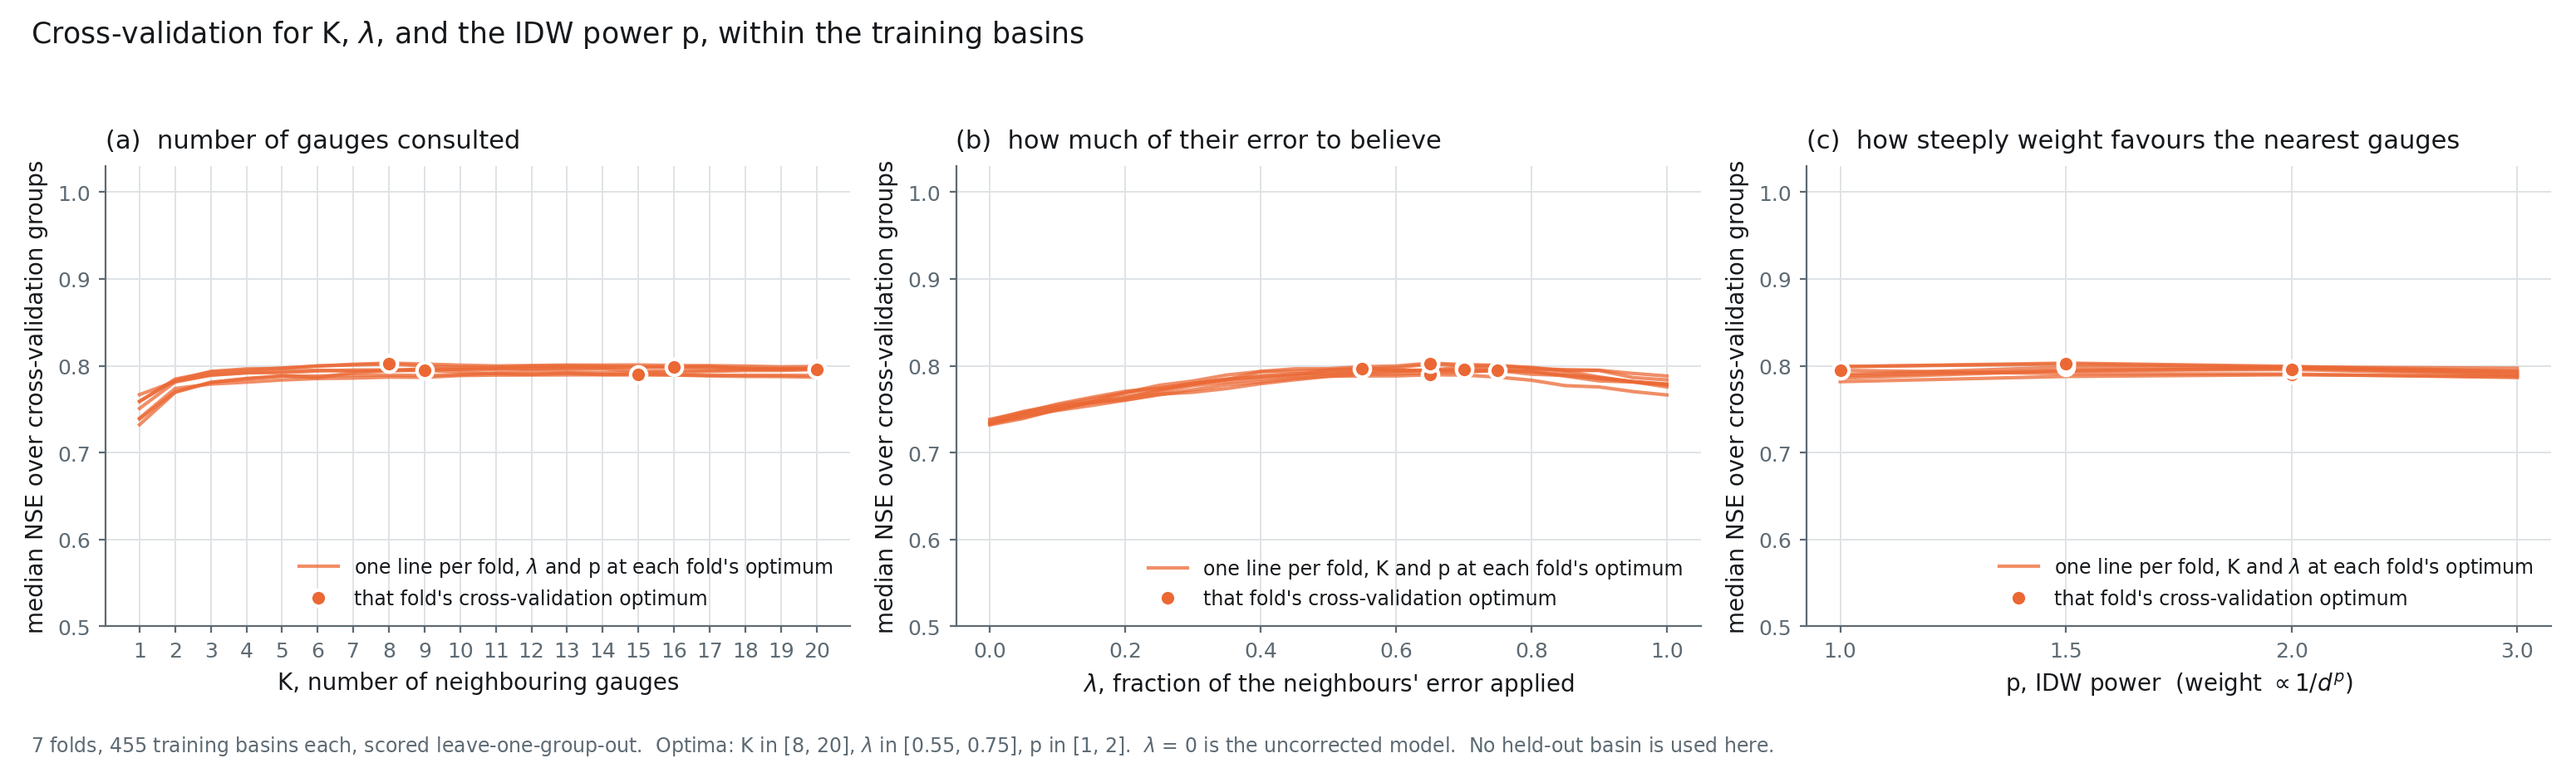
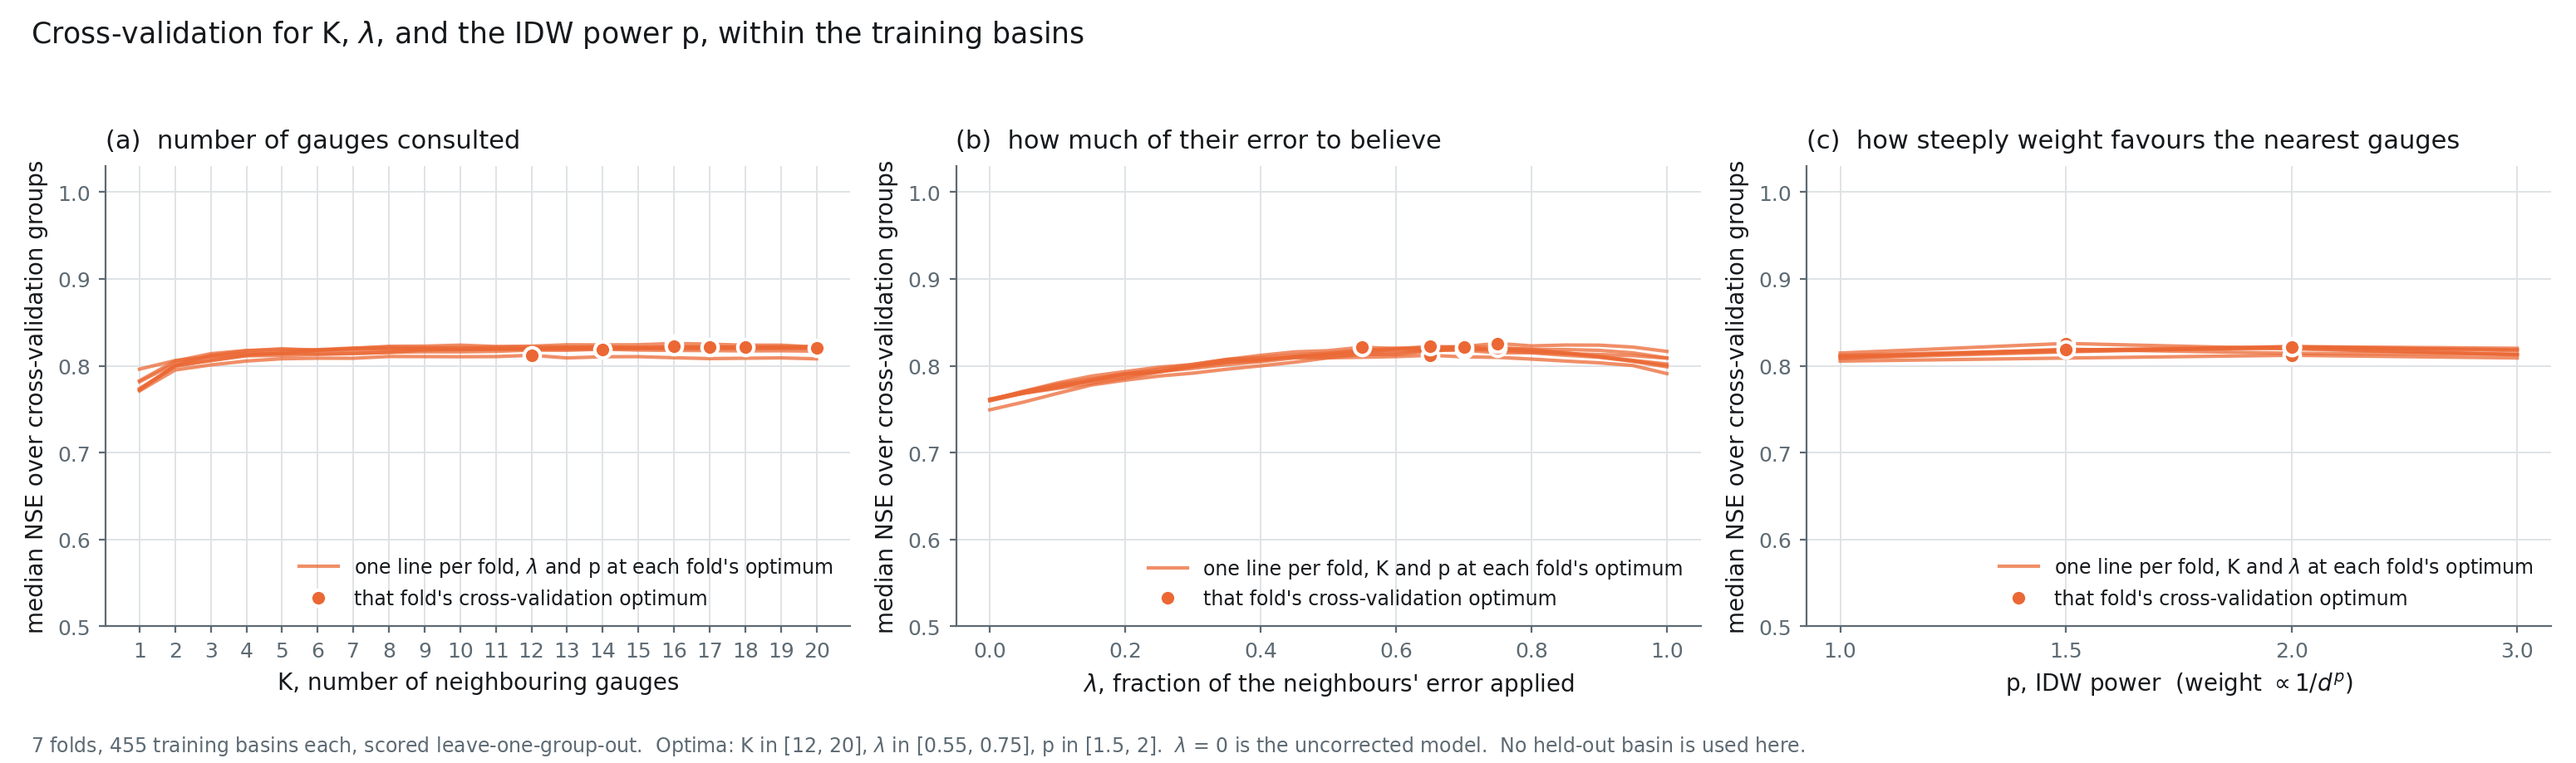
Regenerate PUB figures with the full 3-seed, 7-fold data
CDF, boxplot, hyperparameter, and donor-range figures now reflect all
seven folds x three seeds (median NSE 0.676 -> 0.743, break-even donor
distance 275 km, was 326 km on the earlier 1-seed run).

Also simplified the CDF figure to a single panel (drop the paired
per-basin change plot) and rewired make_cdf_figure.py / make_boxplot_figure.py
to read the metrics CSV src/correct.py already writes instead of
independently re-running the K x lambda x p grid search -- matching the
pattern make_hyperparam_figure.py and make_donor_figure.py already used.
Both scripts' live gauged-reconstruction-pilot code was dropped in favor
of the --pilot flag reading analysis/gauged_reconstruction.py's own CSV.

diff --git a/figures/make_cdf_figure.py b/figures/make_cdf_figure.py
@@ -2,14 +2,9 @@
 
     python figures/make_cdf_figure.py    # -> figures/recon_ungauged_cdf_nse.png
 
-Left: the empirical CDF across held-out (ungauged) basins. Each basin contributes one point --
-the score of its seed-mean hydrograph -- so a curve lying to the right is winning at every
-quantile it is right of, not merely on average.
-
-Right: the same basins paired. The correction is applied to each basin's own hydrograph, so
-raw and corrected are matched and the honest summary is the per-basin change, not the shift
-between two independent distributions. The count above and below zero is printed on the panel
-because a median gain says nothing about how often the method hurts.
+The empirical CDF across held-out (ungauged) basins. Each basin contributes one point -- the
+score of its seed-mean hydrograph -- so a curve lying to the right is winning at every quantile
+it is right of, not merely on average.
 
 Colour: `figures/palette.py` slots 0 and 1 (#2a78d6 blue, #eb6834 orange), validated there --
 normal-vision dE 33.6, protan 24.5, deutan 31.6, all past the >=15 / >=8 thresholds. Identity
@@ -23,14 +18,12 @@ import matplotlib
 matplotlib.use("Agg")
 import matplotlib.pyplot as plt
 import numpy as np
+import pandas as pd
 
 HERE = os.path.dirname(os.path.abspath(__file__))
 sys.path.insert(0, os.path.dirname(HERE))
 from figures.palette import CORRECTED, GRID, INK, MUTE, RAW  # noqa: E402
 from src.config import PERIODS  # noqa: E402
-from src.correct import (apply_all, default_target_group, find_fold,  # noqa: E402
-                         load_all, reconstruct_gauged)
-from src.evaluate import metrics  # noqa: E402
 
 
 def test_period_label(runs_dir):
@@ -42,21 +35,15 @@ def test_period_label(runs_dir):
     return f"{t0[:4]}-{t1[:4]}"
 
 
-def collect(runs_dir="runs", folds_override=None):
-    if folds_override is not None:
-        got, note = folds_override, "reconstruction pilot"
-    else:
-        got, note = apply_all(runs_dir=runs_dir)
-    if not got:
-        raise SystemExit(note)
-    raw, cor, folds, settings = [], [], [], []
-    for f in got:
-        obs = f["obs"][f["held"]]
-        raw.append(metrics(f["raw"], obs).nse.to_numpy())
-        cor.append(metrics(f["corrected"], obs).nse.to_numpy())
-        folds.append(f["fold"])
-        settings.append((f["k"], f["lam"], f["p"]))
-    return np.concatenate(raw), np.concatenate(cor), folds, settings
+def collect(metrics_csv):
+    """Read the metrics `src/correct.py` (or `analysis/gauged_reconstruction.py`) already wrote,
+    rather than repeating their K x lambda x p grid search here."""
+    df = pd.read_csv(metrics_csv)
+    raw = df.query("variant == 'vanilla'")
+    cor = df.query("variant == 'vanilla + correction'")
+    folds = sorted(df.fold.unique())
+    settings = [tuple(raw.query("fold == @f")[["k", "lam", "p"]].iloc[0]) for f in folds]
+    return raw.nse.to_numpy(), cor.nse.to_numpy(), folds, settings
 
 
 def style(ax):
@@ -70,11 +57,11 @@ def style(ax):
     ax.tick_params(colors=MUTE, labelsize=9, length=3)
 
 
-def main(runs_dir="runs", out=None, folds_override=None, pilot=False):
-    raw, cor, folds, settings = collect(runs_dir, folds_override)
+def main(metrics_csv, out=None, runs_dir="runs", pilot=False):
+    raw, cor, folds, settings = collect(metrics_csv)
     period_label = test_period_label(runs_dir)
     n = len(raw)
-    fig, (ax1, ax2) = plt.subplots(1, 2, figsize=(10.5, 4.3))
+    fig, ax1 = plt.subplots(figsize=(6.2, 4.3))
 
     # --- CDF -------------------------------------------------------------------
     for vals, color, label in ((raw, RAW, "LSTM"), (cor, CORRECTED, "LSTM + correction")):
@@ -93,34 +80,6 @@ def main(runs_dir="runs", out=None, folds_override=None, pilot=False):
                   loc="left", pad=8)
     ax1.legend(frameon=False, loc="upper left", fontsize=9, labelcolor=INK)
     style(ax1)
-
-    # --- paired change ----------------------------------------------------------
-    d = cor - raw
-    d = d[np.isfinite(d)]
-    order = np.argsort(d)
-    up, down = (d > 0).sum(), (d < 0).sum()
-    ax2.bar(np.arange(len(d)), d[order], width=1.0,
-            color=np.where(d[order] > 0, CORRECTED, RAW), zorder=3)
-    ax2.axhline(0, color=MUTE, lw=0.9, zorder=2)
-    ax2.set_xlim(-1, len(d))
-    # A percentile bound, not the max: a single-seed hydrograph can have one basin whose
-    # ratio blows up (near-zero observed flow), and letting that basin set the axis crushes
-    # the other 530 into an unreadable band near zero.
-    lim = np.percentile(np.abs(d), 99) * 1.25
-    n_off = int((np.abs(d) > lim).sum())
-    ax2.set_ylim(-lim, lim)
-    ax2.set_xlabel("basins, ranked by change", color=INK, fontsize=10)
-    ax2.set_ylabel("change in NSE", color=INK, fontsize=10)
-    ax2.set_title("Per-basin change, same basins paired", color=INK, fontsize=11,
-                  loc="left", pad=8)
-    ax2.text(0.97, 0.93, f"improved  {up}/{len(d)}  ({up / len(d):.0%})", transform=ax2.transAxes,
-             ha="right", va="top", fontsize=9.5, color=INK)
-    ax2.text(0.97, 0.05, f"worsened  {down}/{len(d)}", transform=ax2.transAxes,
-             ha="right", va="bottom", fontsize=9.5, color=MUTE)
-    if n_off:
-        ax2.text(0.02, 0.05, f"{n_off} basin(s) beyond axis", transform=ax2.transAxes,
-                 ha="left", va="bottom", fontsize=8, color=MUTE)
-    style(ax2)
 
     fold_txt = "fold " + ", ".join(str(f) for f in folds) if len(folds) < 7 else "all 7 folds"
     basin_word = "reconstructed (gauged-but-discontinued)" if pilot else "held-out"
@@ -141,20 +100,16 @@ def main(runs_dir="runs", out=None, folds_override=None, pilot=False):
 
 if __name__ == "__main__":
     ap = argparse.ArgumentParser()
+    ap.add_argument("--metrics", default=None)
     ap.add_argument("--runs", default="runs")
     ap.add_argument("--out", default=None)
-    ap.add_argument("--fold", type=int, default=None,
-                    help="build the gauged-reconstruction pilot for this outer fold instead of "
-                    "the real PUB folds")
-    ap.add_argument("--target-group", type=int, default=None,
-                    help="which inner group goes dark (default: smallest available)")
+    ap.add_argument("--pilot", action="store_true",
+                    help="metrics CSV is the gauged-reconstruction pilot's "
+                    "(runs/recon_gauged_metrics.csv), not the PUB one")
     a = ap.parse_args()
 
-    if a.fold is None:
-        main(a.runs, a.out)
-    else:
-        f = find_fold(load_all(a.runs), a.fold)
-        target_group = a.target_group if a.target_group is not None else default_target_group(f)
-        pilot, _ = reconstruct_gauged(f, target_group)
-        main(a.runs, a.out or f"{HERE}/recon_gauged_cdf_nse.png",
-             folds_override=[pilot], pilot=True)
+    metrics_csv = a.metrics or (f"{a.runs}/recon_gauged_metrics.csv" if a.pilot
+                                else f"{a.runs}/recon_ungauged_metrics.csv")
+    out = a.out or (f"{HERE}/recon_gauged_cdf_nse.png" if a.pilot
+                    else f"{HERE}/recon_ungauged_cdf_nse.png")
+    main(metrics_csv, out, a.runs, pilot=a.pilot)

diff --git a/figures/make_boxplot_figure.py b/figures/make_boxplot_figure.py
@@ -26,14 +26,12 @@ import matplotlib
 matplotlib.use("Agg")
 import matplotlib.pyplot as plt
 import numpy as np
+import pandas as pd
 
 HERE = os.path.dirname(os.path.abspath(__file__))
 sys.path.insert(0, os.path.dirname(HERE))
 from figures.palette import CORRECTED, GRID, INK, MUTE, RAW  # noqa: E402
 from src.config import PERIODS  # noqa: E402
-from src.correct import (apply_all, default_target_group, find_fold,  # noqa: E402
-                         load_all, reconstruct_gauged)
-from src.evaluate import metrics  # noqa: E402
 
 PANELS = [
     ("kge", "KGE", "higher is better", False),
@@ -53,27 +51,19 @@ def test_period_label(runs_dir):
     return f"{t0[:4]}-{t1[:4]}"
 
 
-def collect(runs_dir="runs", folds_override=None):
-    if folds_override is not None:
-        got, note = folds_override, "reconstruction pilot"
-    else:
-        got, note = apply_all(runs_dir=runs_dir)
-    if not got:
-        raise SystemExit(note)
-    import pandas as pd
-    raw, cor, folds, settings = [], [], [], []
-    for f in got:
-        obs = f["obs"][f["held"]]
-        raw.append(metrics(f["raw"], obs))
-        cor.append(metrics(f["corrected"], obs))
-        folds.append(f["fold"])
-        settings.append((f["k"], f["lam"], f["p"]))
-    return (pd.concat(raw, ignore_index=True), pd.concat(cor, ignore_index=True),
-            folds, settings)
+def collect(metrics_csv):
+    """Read the metrics `src/correct.py` (or `analysis/gauged_reconstruction.py`) already wrote,
+    rather than repeating their K x lambda x p grid search here."""
+    df = pd.read_csv(metrics_csv)
+    raw = df.query("variant == 'vanilla'")
+    cor = df.query("variant == 'vanilla + correction'")
+    folds = sorted(df.fold.unique())
+    settings = [tuple(raw.query("fold == @f")[["k", "lam", "p"]].iloc[0]) for f in folds]
+    return raw, cor, folds, settings
 
 
-def main(runs_dir="runs", out=None, folds_override=None, pilot=False):
-    raw, cor, folds, settings = collect(runs_dir, folds_override)
+def main(metrics_csv, out=None, runs_dir="runs", pilot=False):
+    raw, cor, folds, settings = collect(metrics_csv)
     period_label = test_period_label(runs_dir)
     fig, axes = plt.subplots(2, 3, figsize=(11.5, 6.6))
 
@@ -146,20 +136,16 @@ def main(runs_dir="runs", out=None, folds_override=None, pilot=False):
 
 if __name__ == "__main__":
     ap = argparse.ArgumentParser()
+    ap.add_argument("--metrics", default=None)
     ap.add_argument("--runs", default="runs")
     ap.add_argument("--out", default=None)
-    ap.add_argument("--fold", type=int, default=None,
-                    help="build the gauged-reconstruction pilot for this outer fold instead of "
-                    "the real PUB folds")
-    ap.add_argument("--target-group", type=int, default=None,
-                    help="which inner group goes dark (default: smallest available)")
+    ap.add_argument("--pilot", action="store_true",
+                    help="metrics CSV is the gauged-reconstruction pilot's "
+                    "(runs/recon_gauged_metrics.csv), not the PUB one")
     a = ap.parse_args()
 
-    if a.fold is None:
-        main(a.runs, a.out)
-    else:
-        f = find_fold(load_all(a.runs), a.fold)
-        target_group = a.target_group if a.target_group is not None else default_target_group(f)
-        pilot, _ = reconstruct_gauged(f, target_group)
-        main(a.runs, a.out or f"{HERE}/recon_gauged_metrics_boxplots.png",
-             folds_override=[pilot], pilot=True)
+    metrics_csv = a.metrics or (f"{a.runs}/recon_gauged_metrics.csv" if a.pilot
+                                else f"{a.runs}/recon_ungauged_metrics.csv")
+    out = a.out or (f"{HERE}/recon_gauged_metrics_boxplots.png" if a.pilot
+                    else f"{HERE}/recon_ungauged_metrics_boxplots.png")
+    main(metrics_csv, out, a.runs, pilot=a.pilot)
